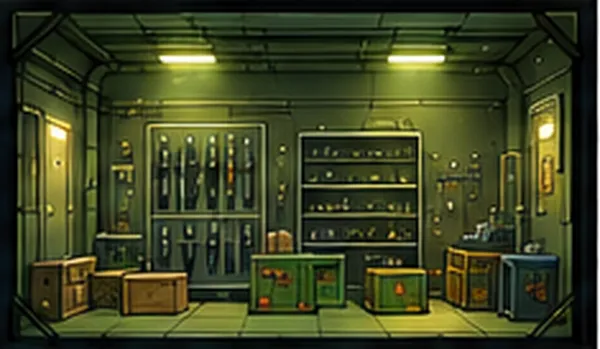
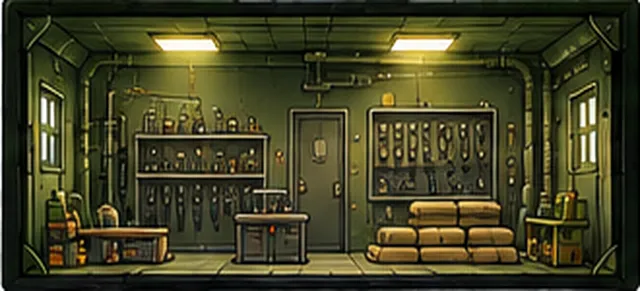
Grottan: nya reviderade bilder (rum, gubbar i flera utseenden, monster)
Claude-Session: https://claude.ai/code/session_012yB7bTQ1q31x8XURfVuR2Z

diff --git a/index.html b/index.html
@@ -514,18 +514,19 @@
 
   .cvsurf{background:url(assets/landskap_dag.webp) center bottom/cover!important}.cvsurf.night{background:url(assets/landskap_natt.webp) center bottom/cover!important}
   .cvsurf .sun,.cvsurf .cl,.cvground{display:none!important}.cvhatch{bottom:0!important}
+  .cvsurf .cvw .mon{height:40px;width:auto;display:block}
   .ri{width:20px;height:20px;vertical-align:-4px}
   .fsvault{display:block;background:#050607}
   .fsshaft{width:30px;background:url(assets/hisschakt.webp) repeat-y center top/30px auto!important;border:none!important;box-shadow:none!important}
   .fscab{width:26px!important;height:78px!important;left:2px!important;background:url(assets/hiss.webp) center/100% 100% no-repeat!important;border:none!important;font-size:0}
-  .fsgrid{margin-left:30px;display:grid;grid-template-columns:repeat(auto-fill,minmax(150px,1fr));gap:4px;padding:4px}
-  .fsroom{height:auto!important;aspect-ratio:600/349;background-color:#000;background-size:100% 100%;background-repeat:no-repeat;border:none!important;border-radius:5px;box-shadow:0 2px 6px rgba(0,0,0,.5)!important}
+  .fsgrid{margin-left:30px;display:grid;grid-template-columns:repeat(auto-fill,minmax(290px,1fr));gap:4px;padding:4px}
+  .fsroom{height:auto!important;aspect-ratio:640/291;background-color:#000;background-size:106% 112%;background-position:center;background-repeat:no-repeat;border:none!important;border-radius:5px;box-shadow:0 2px 6px rgba(0,0,0,.5)!important}
   .fsroom::before,.fsroom .rf,.fsroom .rw::after{display:none!important}
   .fsroom .rw{background-image:none!important;mix-blend-mode:color;opacity:.6}
   .fsroom .rh{background:rgba(0,0,0,.55);height:16px;border-radius:5px 5px 0 0}
   .fsroom .stn{bottom:4%}.fsroom .cvw{bottom:4%}
   .fsroom .need,.fsroom .okc{top:18px}
-  .fsempty{height:auto!important;aspect-ratio:600/349;border:none!important;border-radius:5px;background-color:#000;background-size:100% 100%;background-repeat:no-repeat;display:flex;align-items:flex-end;justify-content:center;padding:0 0 8px;cursor:pointer}
+  .fsempty{height:auto!important;aspect-ratio:640/291;border:none!important;border-radius:5px;background-color:#000;background-size:106% 112%;background-position:center;background-repeat:no-repeat;display:flex;align-items:flex-end;justify-content:center;padding:0 0 8px;cursor:pointer}
   .fsempty span{background:rgba(0,0,0,.6);color:#ffe9b8;border-radius:999px;padding:3px 10px;font-size:12px;font-weight:800}
   .rsv.spr{display:block;width:auto;filter:drop-shadow(0 2px 2px rgba(0,0,0,.6))}
   .cvw .rsv.spr{animation:sprbob .45s ease-in-out infinite}.rsv.spr.work{animation:sprwork 1s ease-in-out infinite;transform-origin:50% 100%}
@@ -723,7 +724,7 @@ function resSvgOld(l,w,cls){
   l=l||{};const sk=SKN[(l.skin||0)%6],hc=HCL[(l.hc||0)%6],sh=SHC[(l.shirt||0)%8],hs=(l.hair||0)%5;
   const hair=['',`<path d="M6 8.5 Q12 .5 18 8.5 Z" fill="${hc}"/>`,`<path d="M5.5 10 Q12 -1 18.5 10 L18.5 16 L16.5 16 L16.5 9.5 L7.5 9.5 L7.5 16 L5.5 16 Z" fill="${hc}"/>`,`<path d="M6 9 L7.5 2 L10.5 6.5 L12.5 1 L14.5 6.5 L17.5 2.5 L18 9 Z" fill="${hc}"/>`,`<path d="M5.5 9 Q12 -2 18.5 9 Z" fill="#d4a017"/><rect x="5" y="8" width="14" height="2" rx="1" fill="#a67c00"/>`][hs];
   return `<svg class="rsv ${cls||''}" width="${w}" height="${Math.round(w*40/24)}" viewBox="0 0 24 40" aria-hidden="true"><g class="a2"><rect x="3" y="17" width="4" height="12" rx="2" fill="#2b5fa8" stroke="#16335e" stroke-width=".6"/></g><g class="l1"><rect x="7" y="28" width="4.5" height="11" rx="2" fill="#244a86"/></g><g class="l2"><rect x="12.5" y="28" width="4.5" height="11" rx="2" fill="#1e3d70"/></g><rect x="6" y="16" width="12" height="14" rx="4" fill="#2b5fa8" stroke="#16335e" stroke-width=".6"/><path d="M12 16v14" stroke="#f2c230" stroke-width="1.4"/><rect x="6" y="22" width="12" height="2.2" fill="#f2c230"/><rect x="3" y="21" width="4" height="2.4" fill="${sh}"/><circle cx="12" cy="9.5" r="6" fill="${sk}"/>${hair}<circle cx="10" cy="10" r=".9" fill="#222"/><circle cx="14" cy="10" r=".9" fill="#222"/><path d="M10.2 12.6 Q12 14 13.8 12.6" stroke="#7a3b1e" stroke-width=".8" fill="none"/><g class="a1"><rect x="17" y="17" width="4" height="12" rx="2" fill="#2b5fa8" stroke="#16335e" stroke-width=".6"/></g></svg>`}
-function resSvg(l,w,cls){return `<img class="rsv spr ${cls||''}" src="assets/${cls==='sit'?'man_sjuk_sitt':'man_stall'}.webp" style="height:${Math.round(w*40/24)}px" alt="">`}
+function resSvg(l,w,cls){return `<img class="rsv spr ${cls||''}" src="assets/${cls==='sit'?'man_sjuk_sitt':'char_'+(((l&&l.skin)||0)%3+1)}.webp" style="height:${Math.round(w*40/24)}px" alt="">`}
 function roomFx(k,L,f){
   const p=Math.round((f==null?1:f)*100)+'%';
   return ({power:`+${24*L} ⚡/tim`,canteen:`+${16*L} 🍖/tim`,water:`+${16*L} 💧/tim`,workshop:`+${8*L} 🪨 och +${3*L} ⚙ /tim`,hospital:`+${(1.5*L).toFixed(1)} 💊/tim · läker`,lab:`+${2*L} 🔬/tim`,defense:`+${12*L} försvar`,control:`+${4*L} % produktion`,comms:`överlevare var ${(3/(1+0.25*L)).toFixed(1)}:e timme`,storage:`+${50*L} % lager`,lounge:`+${5*L} humör`,dorm:`plats åt ${2*L}`,training:`3× erfarenhet`}[k]||'')}
@@ -757,12 +758,12 @@ function cvRoomHtml(r,f,sl,pw){
   if(!r||r.kind==='ruin')return `<button class="fsempty" data-slot="${f},${sl}" ${rimg(r?'ruin':'bygg_har')}><span>${r?'Ruin · bygg om':'＋ Bygg'}</span></button>`;
   const k=CK[r.kind]||CK.lounge,mine=cave.residents.filter(x=>x.room_id===r.id&&x.status==='ok');
   let ppl='';
-  if(r.slots>0){ppl=mine.map((x,i)=>`<span class="stn" style="left:${16+i*38}%">${resSvg(x.look,24,'work')}</span>`).join('')}
+  if(r.slots>0){ppl=mine.map((x,i)=>`<span class="stn" style="left:${16+i*38}%">${resSvg(x.look,34,'work')}</span>`).join('')}
   else{
     const dorms=cave.rooms.filter(q=>q.kind==='dorm'),home=dorms.length?dorms:cave.rooms.filter(q=>q.kind==='lounge');
     const idle=cave.residents.filter(x=>!x.room_id||x.status!=='ok');
     const my=idle.filter((x,i)=>home.length&&home[i%home.length].id===r.id);
-    ppl=my.map((x,i)=>{const d=11+(x.id*3)%7;return x.status==='injured'?`<span class="stn" style="left:${22+i*24}%">${resSvg(x.look,24,'sit')}<em class="bdg">🩹</em></span>`:`<span class="cvw" style="--d:${d}s;--dl:-${(x.id*2.7)%d}s"><i>${resSvg(x.look,24,'')}</i></span>`}).join('')}
+    ppl=my.map((x,i)=>{const d=11+(x.id*3)%7;return x.status==='injured'?`<span class="stn" style="left:${22+i*24}%">${resSvg(x.look,34,'sit')}<em class="bdg">🩹</em></span>`:`<span class="cvw" style="--d:${d}s;--dl:-${(x.id*2.7)%d}s"><i>${resSvg(x.look,34,'')}</i></span>`}).join('')}
   const warn=r.slots>0&&mine.length<r.slots?`<span class="need">${mine.length}/${r.slots}</span>`:(r.slots>0?`<span class="okc">${mine.length}/${r.slots}</span>`:'');
   const tint=CC[r.color]?`<div class="rw" style="background-color:${CC[r.color]}"></div>`:'<div class="rw"></div>';
   return `<div class="fsroom ${r.color==='night'?'dark':''} ${pw?'':'off'}" role="button" tabindex="0" data-room="${r.id}" aria-label="${esc(r.name)}" ${rimg(RFILE[r.kind]||'lager')}>${tint}<div class="rh"><span>${esc(r.name)}</span><span style="color:#ffd23f">${'★'.repeat(r.level)}</span></div>${warn}${r.decor?`<span class="rd">${CD[r.decor]?CD[r.decor][0]:''}</span>`:''}${roomFxIcon(r,pw)}${ppl}</div>`}
@@ -794,7 +795,7 @@ function drawCave(){
   const s=cave.state,pw=projRes('power')>0,floors=[];
   for(let f=1;f<=s.depth;f++)for(let sl=0;sl<3;sl++)floors.push(cvRoomHtml(cave.rooms.find(x=>x.floor===f&&x.slot===sl),f,sl,pw));
   const hr=new Date().getHours(),night=hr>=20||hr<6,defRooms=cave.rooms.filter(r=>r.kind==='defense').length,ok=s.defense>=s.next_str;
-  const EN=['🧟','🐺','🧟♀','🐻','🐗','🐍','🦂','🕷','👹'],pool=EN.slice(0,Math.min(EN.length,3+s.attack_no)),ne=Math.min(7,2+Math.floor(s.attack_no/2)+(night?1:0));
+  const EN=[1,2,3,4,5,6].map(n=>`<img class="mon" src="assets/monster_${n}.webp" alt="">`),pool=EN.slice(0,Math.min(EN.length,3+s.attack_no)),ne=Math.min(7,2+Math.floor(s.attack_no/2)+(night?1:0));
   let surf='';for(let i=0;i<ne;i++){const d=13+(i*5)%11;surf+=`<span class="cvw en" style="--d:${d}s;--dl:-${(i*3.7)%d}s"><i>${pool[(i*2+s.attack_no)%pool.length]}</i></span>`}
   for(let i=0;i<Math.min(3,defRooms);i++)surf+=`<span class="cvguard" style="left:${44+i*6}%">💂</span>`;
   if(s.mission_kind)surf+=`<span class="cvw hero" style="--d:40s;--dl:-8s;--mx:90%;font-size:24px"><i>👷</i></span>`;
